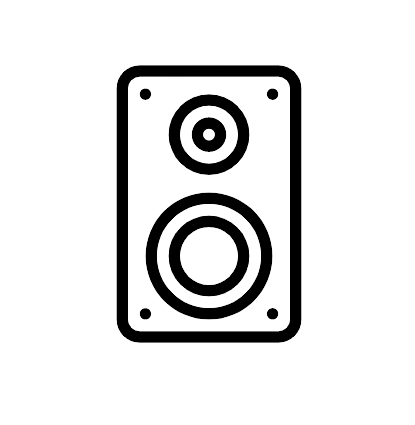
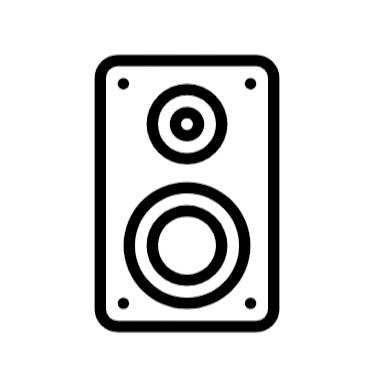
Cambios en las vistas DeviceView y MyDevices. Corregido bug de la bottom bar

Changed region(s): [[0.2316, 0.1447, 0.7526, 0.8974]]

diff --git a/src/views/MyDevices.vue b/src/views/MyDevices.vue
@@ -1,25 +1,6 @@
 <template>
   <v-container class="fill-height" fluid>
-    <v-card class="accent" height="100%" elevation="24">
-      <v-navigation-drawer permanent expand-on-hover>
-        <v-list class="primary">
-          <v-list-item>
-            <v-list-item-content>
-              <v-list-item-title class="text-h6">
-                Ambientes
-              </v-list-item-title>
-            </v-list-item-content>
-          </v-list-item>
-        </v-list>
-        <v-divider></v-divider>
-        <v-list class="accent" nav dense>
-          <v-list-item v-for="room in rooms" :key="room.id" link>
-            <v-list-item-title>{{ room.roomName }}</v-list-item-title>
-          </v-list-item>
-        </v-list>
-      </v-navigation-drawer>
-    </v-card>
-    <v-main class="fill-height accent ma-2">
+    <v-main class="fill-height accent mx-2">
       <v-sheet class="fill-height" elevation="24">
         <v-container class="accent fill-height" fluid>
         <v-row>
@@ -58,7 +39,7 @@
                 <div class="devicesParent">
                   <v-card class="deviceCard" v-for="device in devices" :key="device.id">
                     <router-link :to="{ name: 'deviceDetails', params: {id: device.id}}">
-                      <v-img :src="require('../assets/loading_img_3.jpg')" />
+                      <v-img :src="require(`@/assets/${device.image}`)" />
                       <h4>{{ device.name }}</h4>
                     </router-link>
                   </v-card>
@@ -83,26 +64,6 @@ export default {
   data () {
     return {
       devices: store.devices,
-      rooms: [
-        {
-          id: 0,
-          roomName: 'Heladera',
-          iconName: 'mdi-sun',
-          slug: 'piezadematias'
-        },
-        {
-          id: 1,
-          roomName: 'Cocina',
-          iconName: 'mdi-kitchen',
-          slug: 'cocina'
-        },
-        {
-          id: 2,
-          roomName: 'Living',
-          iconName: 'mdi-room',
-          slug: 'living'
-        }
-      ],
       valid: true,
       device: '',
       deviceRules: [
@@ -134,9 +95,8 @@ export default {
 .deviceCard {
   margin: 10px;
   padding: 10px;
-  border-radius: 5px 20px 5px;
+  border-radius: 20px;
   width: 25%;
   height: 25%;
 }
-
 </style>

diff --git a/src/views/LoadingPageView.vue b/src/views/LoadingPageView.vue
@@ -20,18 +20,18 @@
       </v-col>
       <v-col md="1"></v-col>
     </v-row>
-    <v-row class="" align="center">
+    <v-row class="white" align="center">
       <v-col md="6">
         <p class="heading">Saca el máximo provecho a tus dispositivos inteligentes</p>
         <p class="descriptionText">Hubiot funciona como un control universal para todo tu hogar. Puedes encender la calefacción antes de llegar a casa o activar tu aspiradora mientras sales de paseo. ¡Las posibilidades son ilimitadas!</p>
       </v-col>
       <v-col md="6">
-        <v-img :src="require('../assets/loading_img_2.jpg')" :alt="img2" />
+        <v-img :src="require('../assets/loading_img_2.jpg')" alt="Dad helping his son to set up a smart house" class="img"/>
       </v-col>
     </v-row>
     <v-row class="grey lighten-3" align="center">
       <v-col md="6">
-        <v-img :src="require('../assets/loading_img_3.jpg')" :alt="img2" />
+        <v-img :src="require('../assets/loading_img_3.jpg')" alt="Lady resting on the sofa while the vacuum cleaner is working" class="img"/>
       </v-col>
       <v-col md="6">
         <p class="heading">Cada vez más dispositivos soportados</p>
@@ -54,8 +54,12 @@ export default {
 
 .bgWelcome {
   background-image: url("../assets/loading_img_01.png");
-  background-size: contain;
-  min-height: 600px;
+  background-size: cover;
+  height: 600px;
+}
+
+.img{
+  box-shadow: 4px 4px 4px darkgrey;
 }
 
 .registerButton{

diff --git a/src/store/store.js b/src/store/store.js
@@ -3,7 +3,7 @@ export default {
     {
       name: 'Parlante',
       slug: 'parlante',
-      image: 'parlante.jpg',
+      image: 'parlante.png',
       id: 1,
       description:
         'parlantoide',
@@ -90,7 +90,7 @@ export default {
     {
       name: 'Puerta',
       slug: 'puerta',
-      image: 'puerta.jpg',
+      image: 'puerta.png',
       id: 2,
       description:
         'puertoide',
@@ -133,9 +133,9 @@ export default {
       ]
     },
     {
-      name: 'Aire acondicionado',
-      slug: 'aire-acondicionado',
-      image: 'aire.jpg',
+      name: 'Aire',
+      slug: 'aire',
+      image: 'aire.png',
       id: 3,
       description:
         'aire acondionadoide',

diff --git a/src/App.vue b/src/App.vue
@@ -1,9 +1,9 @@
 <template>
     <div id="app">
-      <v-app>
-      <NavigationBar/>
-      <router-view :key="$route.path"/>
-      <BottomBar class="mt-6"/>
+      <v-app id="app">
+        <NavigationBar/>
+        <router-view :key="$route.path"/>
+        <BottomBar/>
       </v-app>
     </div>
 </template>
@@ -13,6 +13,7 @@
   font-family: Avenir, Helvetica, Arial, sans-serif;
   -webkit-font-smoothing: antialiased;
   -moz-osx-font-smoothing: grayscale;
+  margin: 0;
   text-align: center;
   color: #000000;
 }

diff --git a/src/views/DeviceView.vue b/src/views/DeviceView.vue
@@ -4,7 +4,7 @@
       <div>
         <h1 class="cardTitle">{{ device.name }}</h1>
       </div>
-      <v-img :src="require(`@/assets/parlante.png`)" alt="parlante" class="img"></v-img>
+      <v-img :src="require(`@/assets/${device.image}`)" alt="parlante" class="img"></v-img>
       <v-card-title class="sectionTitle">Estado</v-card-title>
       <v-card-text class="text-left">
         <ul class="stateText">

diff --git a/src/views/RegisterView.vue b/src/views/RegisterView.vue
@@ -59,7 +59,7 @@ export default {
 <style scoped>
 .bg {
   background-image: url("../assets/login_background.png");
-  background-size: contain;
+  background-size: cover;
 }
 
 .cardTitle{
